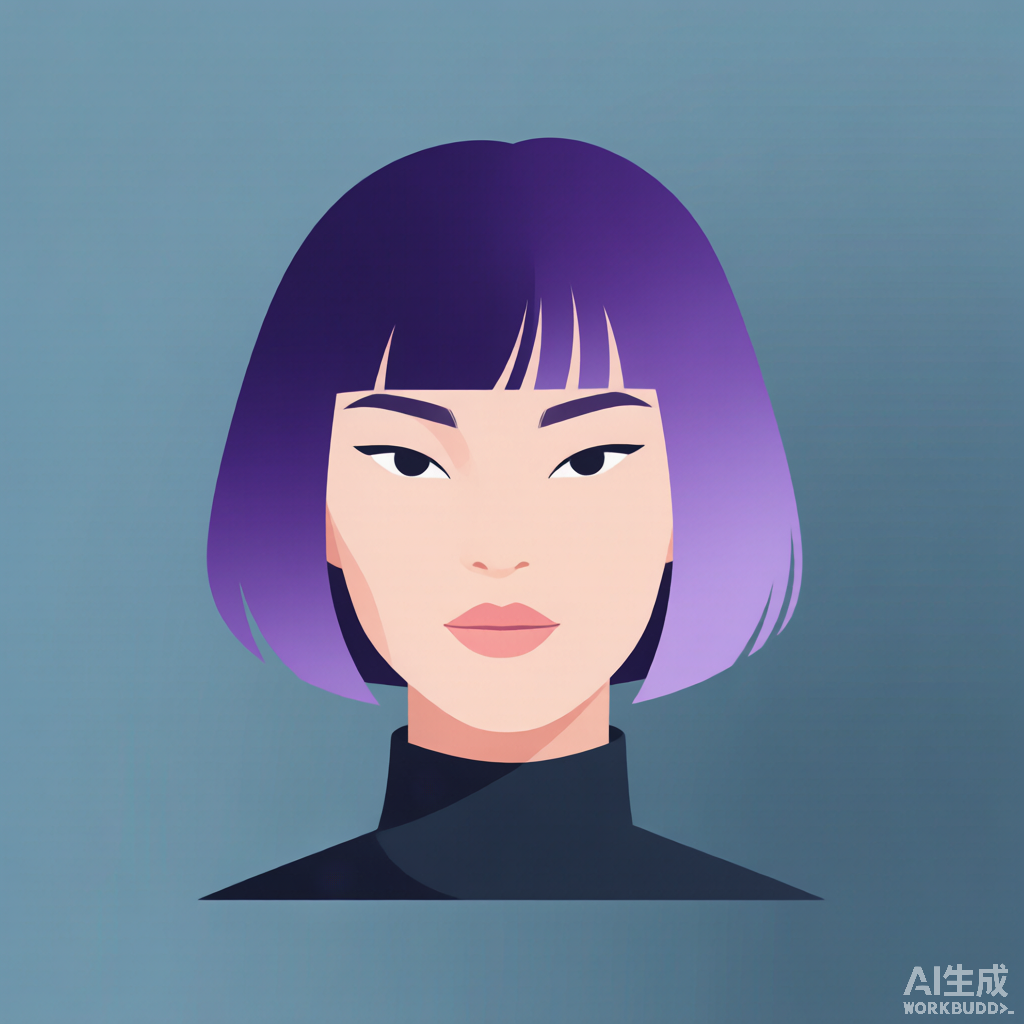
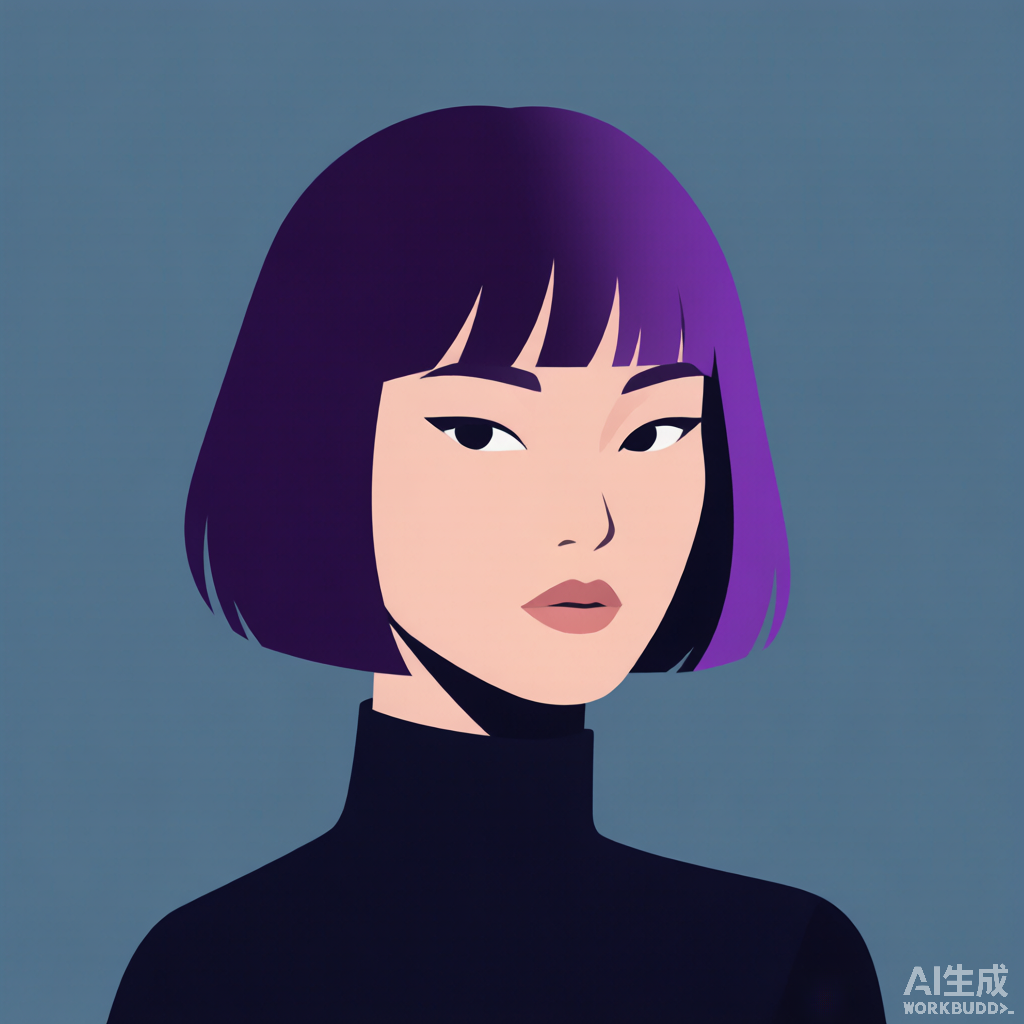
fix: 头像换方案A(深紫渐变发色) + 布局取消强制等高(hero不再留白) + 日历行距缩小

diff --git a/assets/css/style-v2.css b/assets/css/style-v2.css
@@ -638,21 +638,21 @@ body[data-mod="spark"]   .page-title { color: #A7AEB6; }
 .bento .mod-cal { grid-column: span 3; grid-row: span 2; background: var(--surface); cursor: default; }
 .bento .mod-cal:hover { transform: none; box-shadow: var(--sh-2); border-color: var(--line); }
 
-/* 日历移到问候条右侧：与 hero 并排（占3行=450px，确保日历不被grid裁切） */
-.bento-top { grid-column: 1 / -1; grid-row: span 3; display: flex; gap: 14px; align-items: stretch; }
+/* 日历移到问候条右侧：与 hero 并排（各自适应高度，不强制等高） */
+.bento-top { grid-column: 1 / -1; grid-row: span 3; display: flex; gap: 14px; align-items: flex-start; }
 .bento-top .bento-hero { flex: 1 1 auto; margin: 0; }
-.bento-top .mod-cal { flex: 0 0 320px; width: 320px; min-height: 380px; grid-column: auto; grid-row: auto; }
+.bento-top .mod-cal { flex: 0 0 300px; width: 300px; grid-column: auto; grid-row: auto; }
 
 .mod-cal { display: flex; flex-direction: column; }
 .cal-head { display: flex; align-items: flex-start; justify-content: space-between; }
-.cal-m { font-size: 16px; font-weight: 600; color: var(--ink); font-family: var(--font-serif); }
-.cal-l { font-size: 11.5px; color: var(--ink-3); margin-top: 2px; letter-spacing: .5px; }
+.cal-m { font-size: 14.5px; font-weight: 600; color: var(--ink); font-family: var(--font-serif); }
+.cal-l { font-size: 10.5px; color: var(--ink-3); margin-top: 1px; letter-spacing: .5px; }
 .cal-nav { display: flex; gap: 6px; }
 .cal-nav button { width: 28px; height: 28px; border-radius: 8px; border: 1px solid var(--line); background: var(--surface-2); color: var(--ink-2); cursor: pointer; font-size: 16px; line-height: 1; display: grid; place-items: center; transition: background .2s var(--ease), color .2s var(--ease); }
 .cal-nav button:hover { background: var(--surface-3); color: var(--mc); }
-.cal-grid { display: grid; grid-template-columns: repeat(7, 1fr); gap: 3px; margin-top: 10px; }
-.cal-wd { font-size: 11.5px; color: var(--ink-4); text-align: center; padding: 2px 0; }
-.cal-d { position: relative; aspect-ratio: 1 / 1; display: grid; place-items: center; border-radius: 8px; font-size: 14px; color: var(--ink-2); cursor: pointer; transition: background .2s var(--ease); }
+.cal-grid { display: grid; grid-template-columns: repeat(7, 1fr); gap: 2px; margin-top: 6px; }
+.cal-wd { font-size: 11px; color: var(--ink-4); text-align: center; padding: 1px 0; }
+.cal-d { position: relative; aspect-ratio: 1 / 1; display: grid; place-items: center; border-radius: 6px; font-size: 13px; color: var(--ink-2); cursor: pointer; transition: background .2s var(--ease); }
 .cal-d.out { color: var(--ink-4); opacity: .4; }
 .cal-d:hover { background: var(--surface-3); }
 .cal-d.today { background: color-mix(in srgb, var(--mc) 14%, transparent); color: var(--mc); font-weight: 700; }
